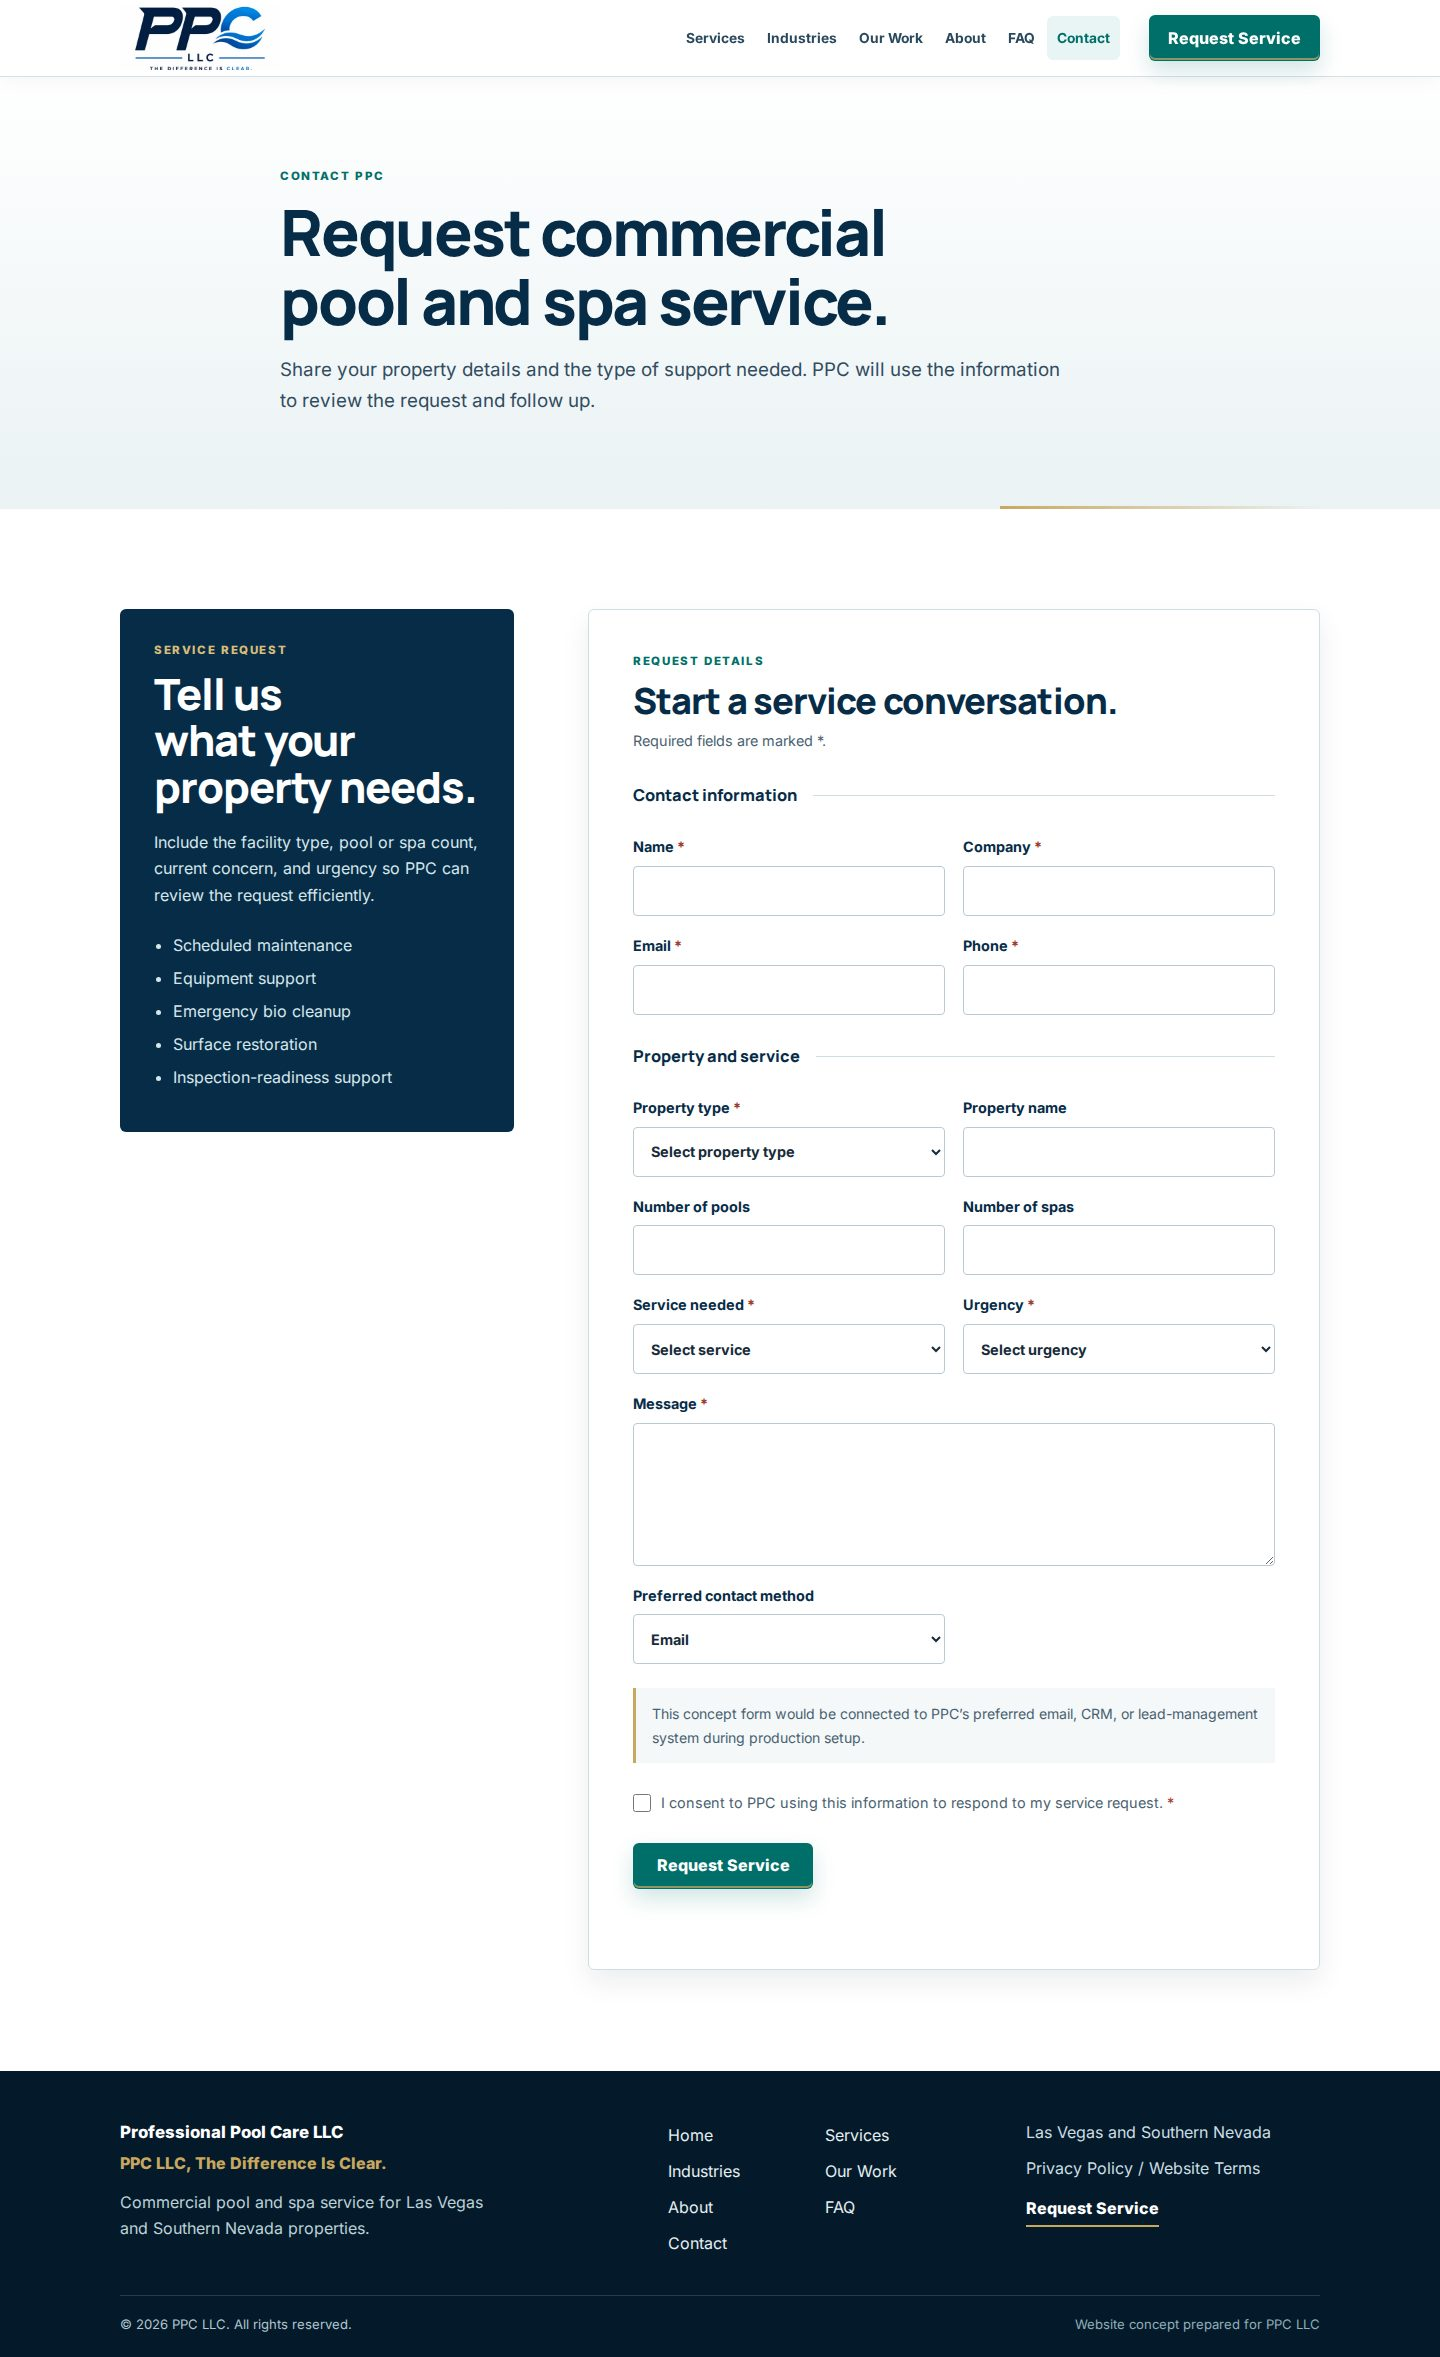
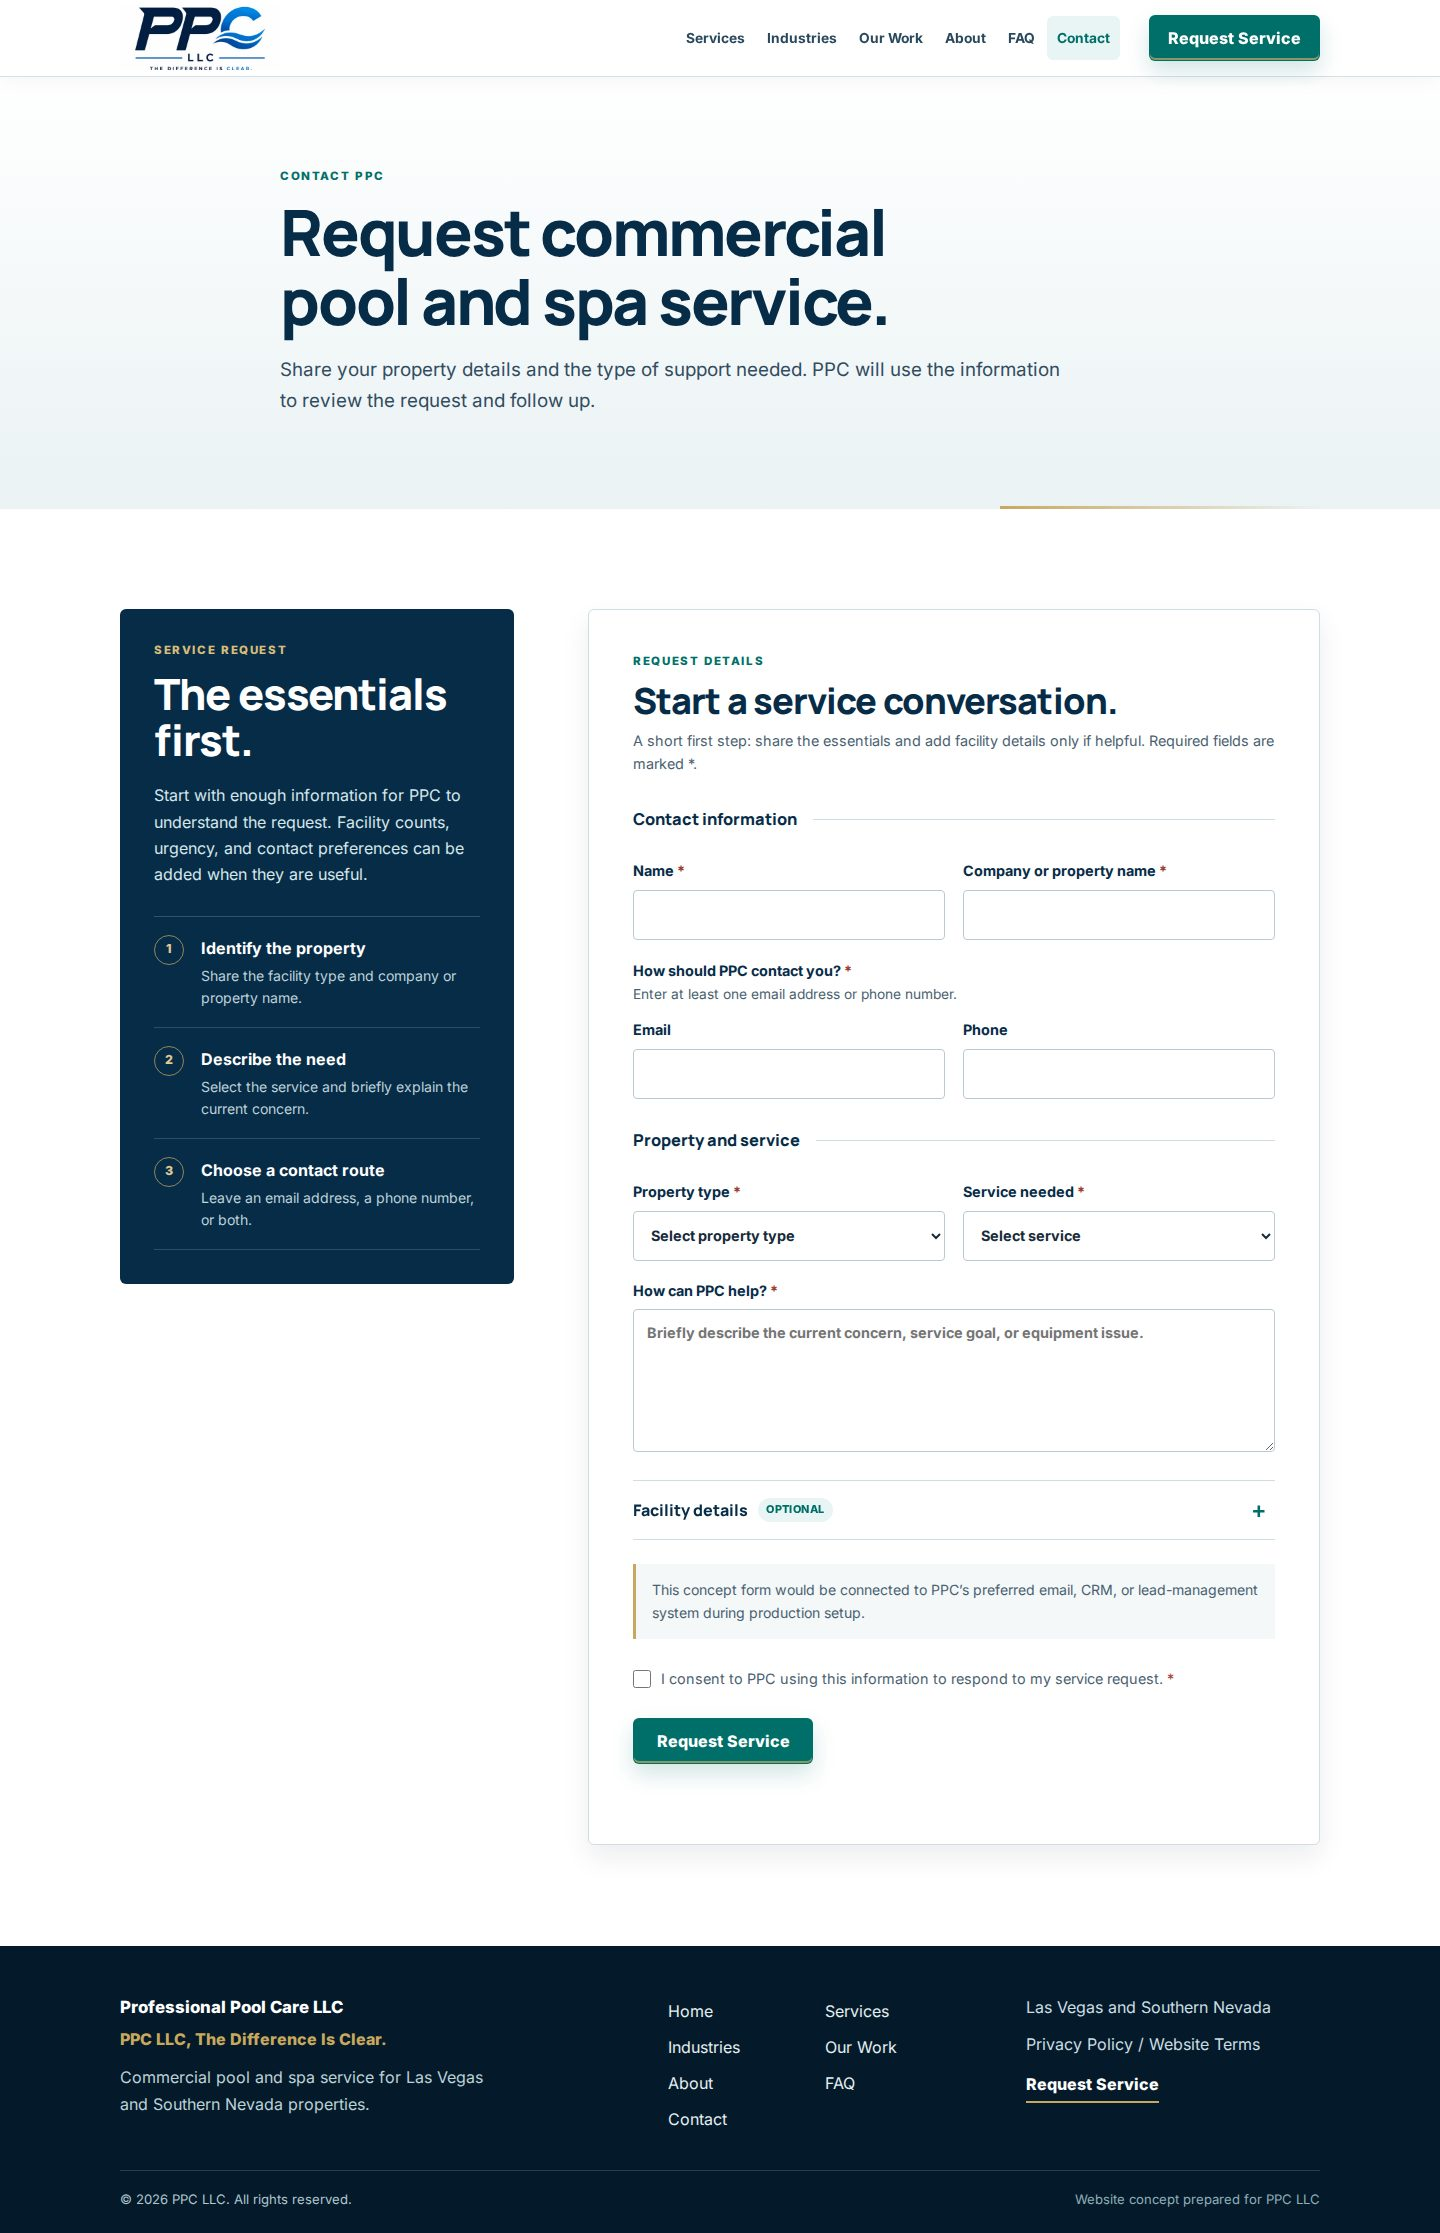
Refine PPCLV contact experience

diff --git a/contact.html b/contact.html
@@ -58,15 +58,13 @@
       <div class="container contact-layout">
         <aside class="contact-panel reveal">
           <p class="eyebrow">Service Request</p>
-          <h2>Tell us what your property needs.</h2>
-          <p>Include the facility type, pool or spa count, current concern, and urgency so PPC can review the request efficiently.</p>
-          <ul class="check-list">
-            <li>Scheduled maintenance</li>
-            <li>Equipment support</li>
-            <li>Emergency bio cleanup</li>
-            <li>Surface restoration</li>
-            <li>Inspection-readiness support</li>
-          </ul>
+          <h2>The essentials first.</h2>
+          <p>Start with enough information for PPC to understand the request. Facility counts, urgency, and contact preferences can be added when they are useful.</p>
+          <ol class="request-steps">
+            <li><span aria-hidden="true">1</span><div><strong>Identify the property</strong><p>Share the facility type and company or property name.</p></div></li>
+            <li><span aria-hidden="true">2</span><div><strong>Describe the need</strong><p>Select the service and briefly explain the current concern.</p></div></li>
+            <li><span aria-hidden="true">3</span><div><strong>Choose a contact route</strong><p>Leave an email address, a phone number, or both.</p></div></li>
+          </ol>
           <!-- Add verified phone and email here when PPC approves public contact details. -->
         </aside>
         <form class="quote-form reveal" action="#" method="post" data-quote-form data-endpoint-configured="false">
@@ -75,30 +73,36 @@
           <div class="form-heading">
             <p class="eyebrow">Request Details</p>
             <h2>Start a service conversation.</h2>
-            <p>Required fields are marked <span aria-hidden="true">*</span>.</p>
+            <p>A short first step: share the essentials and add facility details only if helpful. Required fields are marked <span aria-hidden="true">*</span>.</p>
           </div>
           <fieldset>
             <legend>Contact information</legend>
             <div class="form-grid">
               <label>Name <span class="required" aria-hidden="true">*</span><input required name="name" autocomplete="name"></label>
-              <label>Company <span class="required" aria-hidden="true">*</span><input required name="company" autocomplete="organization"></label>
-              <label>Email <span class="required" aria-hidden="true">*</span><input required type="email" name="email" autocomplete="email"></label>
-              <label>Phone <span class="required" aria-hidden="true">*</span><input required type="tel" name="phone" autocomplete="tel"></label>
+              <label>Company or property name <span class="required" aria-hidden="true">*</span><input required name="company" autocomplete="organization"></label>
+              <p class="contact-method-hint full" id="contact-method-hint"><strong>How should PPC contact you? <span class="required" aria-hidden="true">*</span></strong>Enter at least one email address or phone number.</p>
+              <label>Email<input type="email" name="email" autocomplete="email" aria-describedby="contact-method-hint"></label>
+              <label>Phone<input type="tel" name="phone" autocomplete="tel" aria-describedby="contact-method-hint"></label>
             </div>
           </fieldset>
           <fieldset>
             <legend>Property and service</legend>
             <div class="form-grid">
               <label>Property type <span class="required" aria-hidden="true">*</span><select required name="property_type"><option value="">Select property type</option><option>Resort or hospitality</option><option>Apartment or multifamily</option><option>HOA</option><option>Municipal or public facility</option><option>Commercial property</option></select></label>
-              <label>Property name <input name="property_name"></label>
-              <label>Number of pools <input type="number" min="0" name="pools" inputmode="numeric"></label>
-              <label>Number of spas <input type="number" min="0" name="spas" inputmode="numeric"></label>
               <label>Service needed <span class="required" aria-hidden="true">*</span><select required name="service_needed"><option value="">Select service</option><option>Commercial pool maintenance</option><option>Commercial spa maintenance</option><option>Equipment support</option><option>Emergency bio cleanup</option><option>Acid washing</option><option>SNHD inspection-readiness support</option></select></label>
-              <label>Urgency <span class="required" aria-hidden="true">*</span><select required name="urgency"><option value="">Select urgency</option><option>Routine quote</option><option>Current issue</option><option>Urgent request</option></select></label>
-              <label class="full">Message <span class="required" aria-hidden="true">*</span><textarea required name="message" rows="5"></textarea></label>
-              <label>Preferred contact method <select name="preferred_contact"><option>Email</option><option>Phone</option></select></label>
+              <label class="full">How can PPC help? <span class="required" aria-hidden="true">*</span><textarea required name="message" rows="5" placeholder="Briefly describe the current concern, service goal, or equipment issue."></textarea></label>
             </div>
           </fieldset>
+          <details class="optional-form-details">
+            <summary><span>Facility details</span><span class="optional-label">Optional</span></summary>
+            <p>Add these details if they help describe the scope or timing of the request.</p>
+            <div class="form-grid">
+              <label>Number of pools<input type="number" min="0" name="pools" inputmode="numeric"></label>
+              <label>Number of spas<input type="number" min="0" name="spas" inputmode="numeric"></label>
+              <label>Urgency<select name="urgency"><option value="">Not specified</option><option>Routine quote</option><option>Current issue</option><option>Urgent request</option></select></label>
+              <label>Preferred contact method<select name="preferred_contact"><option value="">No preference</option><option>Email</option><option>Phone</option></select></label>
+            </div>
+          </details>
           <p class="form-demo-note">This concept form would be connected to PPC’s preferred email, CRM, or lead-management system during production setup.</p>
           <label class="full consent"><input required type="checkbox" name="privacy_consent"> <span>I consent to PPC using this information to respond to my service request. <span class="required" aria-hidden="true">*</span></span></label>
           <label class="hp" aria-hidden="true">Leave this field blank <input name="website" tabindex="-1" autocomplete="off"></label>

diff --git a/styles.css b/styles.css
@@ -734,7 +734,34 @@ details p { max-width: 72ch; margin: 0; padding: 0 48px 20px 0; color: var(--mut
 }
 .contact-panel h2 { color: var(--white); }
 .contact-panel .eyebrow { color: #d9bd78; }
-.contact-panel .check-list { margin-top: 24px; }
+.request-steps {
+  display: grid;
+  gap: 0;
+  margin: 28px 0 0;
+  padding: 0;
+  border-top: 1px solid rgba(255, 255, 255, 0.18);
+  list-style: none;
+}
+.request-steps li {
+  display: grid;
+  grid-template-columns: 34px minmax(0, 1fr);
+  gap: 13px;
+  padding: 18px 0;
+  border-bottom: 1px solid rgba(255, 255, 255, 0.16);
+}
+.request-steps li > span {
+  display: grid;
+  width: 30px;
+  height: 30px;
+  place-items: center;
+  border: 1px solid rgba(200, 168, 95, 0.72);
+  border-radius: 50%;
+  color: #e1ca92;
+  font-size: 0.78rem;
+  font-weight: 800;
+}
+.request-steps strong { display: block; color: var(--white); }
+.request-steps p { margin: 4px 0 0; color: #bdd2d9; font-size: 0.88rem; line-height: 1.55; }
 .check-list { margin-bottom: 0; padding-left: 1.2rem; }
 .check-list li { margin: 0.42rem 0; }
 .quote-form {
@@ -770,6 +797,13 @@ details p { max-width: 72ch; margin: 0; padding: 0 48px 20px 0; color: var(--mut
 }
 .quote-form label { color: var(--navy); font-size: 0.9rem; font-weight: 700; }
 .required { color: #9b3b2e; }
+.contact-method-hint {
+  margin: 2px 0 -4px;
+  color: var(--muted);
+  font-size: 0.86rem;
+  line-height: 1.5;
+}
+.contact-method-hint strong { display: block; margin-bottom: 2px; color: var(--navy); font-size: 0.9rem; }
 .quote-form input,
 .quote-form select,
 .quote-form textarea {
@@ -791,7 +825,51 @@ details p { max-width: 72ch; margin: 0; padding: 0 48px 20px 0; color: var(--mut
   outline: 3px solid rgba(32, 183, 176, 0.22);
   outline-offset: 0;
 }
+.quote-form input[aria-invalid="true"] {
+  border-color: #982f25;
+  box-shadow: 0 0 0 3px rgba(152, 47, 37, 0.12);
+}
 .full { grid-column: 1 / -1; }
+.optional-form-details {
+  border-top: 1px solid var(--border);
+  border-bottom: 1px solid var(--border);
+}
+.optional-form-details summary {
+  position: relative;
+  display: flex;
+  min-height: 58px;
+  align-items: center;
+  gap: 10px;
+  padding: 8px 36px 8px 0;
+  color: var(--navy);
+  font-family: Manrope, Inter, sans-serif;
+  font-weight: 800;
+  cursor: pointer;
+  list-style: none;
+}
+.optional-form-details summary::-webkit-details-marker { display: none; }
+.optional-form-details summary::after {
+  position: absolute;
+  right: 2px;
+  content: "+";
+  color: var(--teal);
+  font-family: Inter, sans-serif;
+  font-size: 1.45rem;
+  font-weight: 600;
+}
+.optional-form-details[open] summary::after { content: "−"; }
+.optional-label {
+  padding: 3px 8px;
+  border-radius: 999px;
+  color: var(--teal);
+  background: #e8f5f4;
+  font-family: Inter, sans-serif;
+  font-size: 0.68rem;
+  letter-spacing: 0.04em;
+  text-transform: uppercase;
+}
+.optional-form-details > p { max-width: none; margin: 0 0 18px; padding: 0; color: var(--muted); font-size: 0.86rem; }
+.optional-form-details .form-grid { padding-bottom: 24px; }
 .form-demo-note {
   margin: -4px 0 0;
   padding: 14px 16px;

diff --git a/script.js b/script.js
@@ -2,6 +2,8 @@ const menuToggle = document.querySelector(".menu-toggle");
 const primaryMenu = document.querySelector("#primary-menu");
 const quoteForm = document.querySelector("[data-quote-form]");
 const formStatus = document.querySelector("[data-form-status]");
+const emailInput = quoteForm?.querySelector('[name="email"]');
+const phoneInput = quoteForm?.querySelector('[name="phone"]');
 
 const closeMenu = ({ restoreFocus = false } = {}) => {
   if (!menuToggle || !primaryMenu) return;
@@ -37,6 +39,15 @@ window.addEventListener("resize", () => {
   if (window.innerWidth > 1040) closeMenu();
 });
 
+const clearContactError = () => {
+  emailInput?.setCustomValidity("");
+  emailInput?.removeAttribute("aria-invalid");
+  phoneInput?.removeAttribute("aria-invalid");
+};
+
+emailInput?.addEventListener("input", clearContactError);
+phoneInput?.addEventListener("input", clearContactError);
+
 quoteForm?.addEventListener("submit", (event) => {
   if (!formStatus) return;
   formStatus.className = "form-status";
@@ -49,12 +60,27 @@ quoteForm?.addEventListener("submit", (event) => {
     return;
   }
 
+  clearContactError();
+
   if (!quoteForm.checkValidity()) {
     event.preventDefault();
-    formStatus.textContent = "Please complete the required fields before submitting.";
+    formStatus.textContent = "Please complete or correct the highlighted fields before submitting.";
     formStatus.classList.add("error");
     quoteForm.reportValidity();
     quoteForm.querySelector(":invalid")?.focus();
+    return;
+  }
+
+  if (!emailInput?.value.trim() && !phoneInput?.value.trim()) {
+    event.preventDefault();
+    const message = "Please enter an email address or phone number so PPC can follow up.";
+    emailInput?.setCustomValidity(message);
+    emailInput?.setAttribute("aria-invalid", "true");
+    phoneInput?.setAttribute("aria-invalid", "true");
+    formStatus.textContent = message;
+    formStatus.classList.add("error");
+    emailInput?.reportValidity();
+    emailInput?.focus();
     return;
   }
 

diff --git a/tests/site.spec.js b/tests/site.spec.js
@@ -82,17 +82,20 @@ test("contact form has native validation and honest unconfigured feedback", asyn
   const form = page.locator("[data-quote-form]");
   await expect(form).toHaveAttribute("data-endpoint-configured", "false");
   await expect(page.getByText("This concept form would be connected")).toBeVisible();
+  await expect(page.locator(".optional-form-details")).not.toHaveAttribute("open", "");
   await page.getByRole("button", { name: "Request Service" }).last().click();
   await expect(page.locator('input[name="name"]')).toBeFocused();
   await page.locator('input[name="name"]').fill("Test User");
   await page.locator('input[name="company"]').fill("Test Property");
-  await page.locator('input[name="email"]').fill("test@example.com");
-  await page.locator('input[name="phone"]').fill("7025550100");
   await page.locator('select[name="property_type"]').selectOption({ index: 1 });
   await page.locator('select[name="service_needed"]').selectOption({ index: 1 });
-  await page.locator('select[name="urgency"]').selectOption({ index: 1 });
   await page.locator('textarea[name="message"]').fill("Routine commercial service request.");
   await page.locator('input[name="privacy_consent"]').check();
+  await page.getByRole("button", { name: "Request Service" }).last().click();
+  await expect(page.getByRole("status")).toContainText("email address or phone number");
+  await expect(page.locator('input[name="email"]')).toBeFocused();
+  await expect(page.locator('input[name="email"]')).toHaveAttribute("aria-invalid", "true");
+  await page.locator('input[name="email"]').fill("test@example.com");
   await page.getByRole("button", { name: "Request Service" }).last().click();
   await expect(page.getByRole("status")).toContainText("not yet connected to a live inbox");
 });
